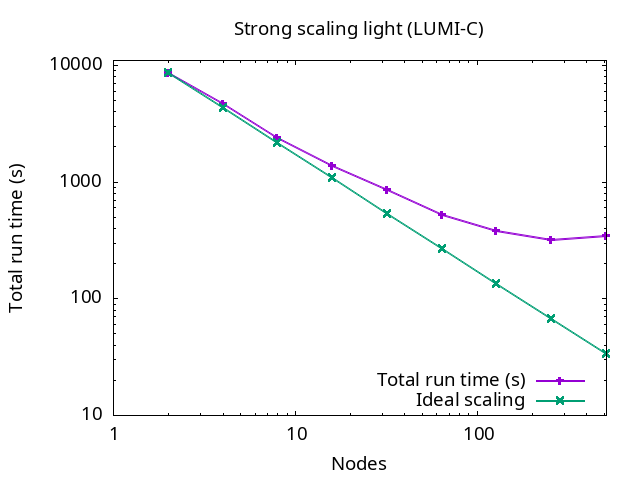
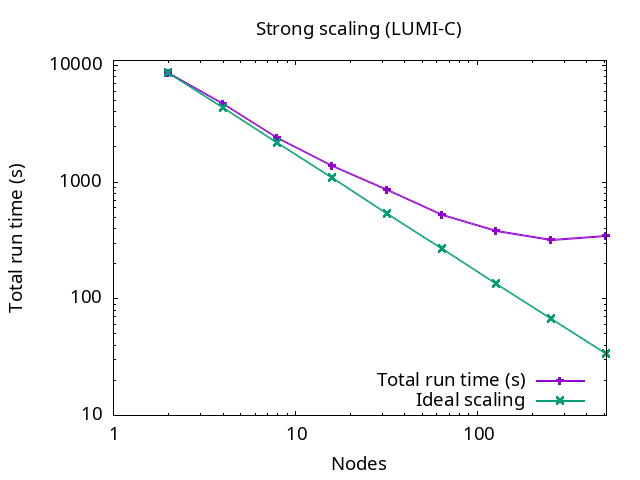
Improvements to applicatrion deployment

Changed region(s): [[0.375, 0.0312, 0.75, 0.0938]]

diff --git a/application-design-deployment/docs/02_application_deployment.md b/application-design-deployment/docs/02_application_deployment.md
@@ -132,8 +132,35 @@ Step 0: study the computing centre's recommendations
 
 
 # Example: task – thread balance on 10 nodes
-<div class=column style=width:100%>
-![](images/vlasiator_roihucpu_task_balance.png){.center width=50%}
+<div class=column style=width:35%>
+- Hybrid MPI-OpenMP application on Roihu CPU
+- Full node (384 cores)
+- All combinations of $$n_\mathrm{tasks} \times n_\mathrm{threads} = 384$$
+</div>
+
+<div class=column style=width:63%>
+![](images/vlasiator_roihucpu_task_balance.png)
+</div>
+
+
+# Performance properties – intranode optimisation
+<div class=column style=width:49%>
+- Hardware complexity
+   - Deep memory hierarchy
+   - CPU clock scaling
+- Requires detailed investigations
+   - Task – thread balance
+   - Profiling
+   - Compiler options
+- What limits your application?
+   - Computation
+   - Communication
+   - Memory access
+</div>
+
+<div class=column style=width:49%>
+- HPC centres sometimes offer advanced node-level optimisation courses for their architecture
+- Can be very complex!
 </div>
 
 
@@ -142,7 +169,7 @@ How efficiently is your code running in parallel?
 
 - Weak scaling:
     - Start with a problem run on a single core/CPU/GPU/node
-    - **Multiply** both **problem size** and core/CPU/GPU/node count by *n*
+    - **Multiply** both **problem size** and core/CPU/GPU/node count by $n$
     - Plot execution time vs. problem size: **should be flat**
 - Strong scaling:
     - Start with problem run on a small amount of resources
@@ -209,7 +236,20 @@ How efficiently is your code running in parallel?
    - Keep track of phases, changes, incidents
 - Plan **post-run** steps
    - Analysis
-   - Transfers, backups, archival of metadata and data
+   - Transfers, backups, metadata and data archival
+
+# Example job script recording run settings
+```bash
+#SBATCH <...>
+# record job script
+cp $0 job_script_${0}_$SLURM_JOBID
+# record environment
+env > job_env_$SLURM_JOBID
+# record modules
+module list > job_modules_$SLURM_JOBID
+# record code version
+srun -n 1 my_code --version > job_version_$SLURM_JOBID
+```
 
 
 # Start the job!